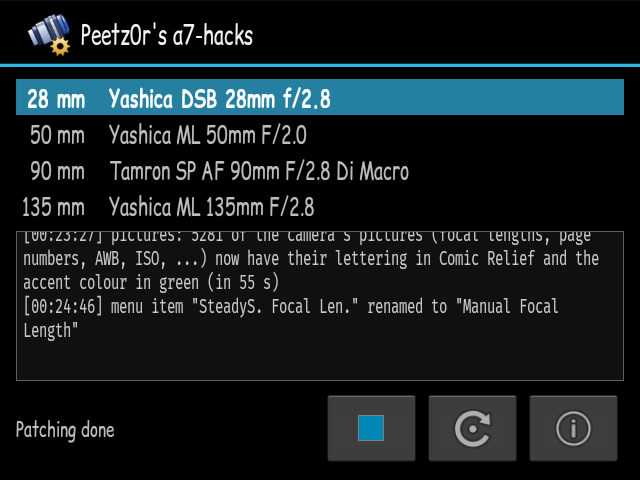
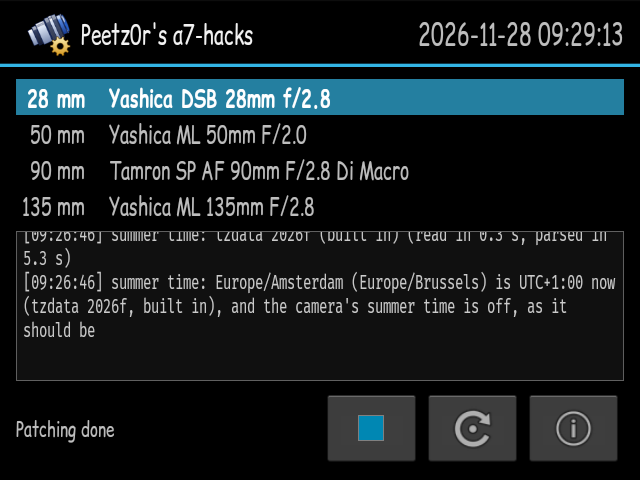
Readme updates

Changed region(s): [[0.0312, 0.4688, 0.9688, 0.7188], [0.6562, 0.0312, 0.9688, 0.0938]]

diff --git a/docs/Readme.md b/docs/Readme.md
@@ -22,6 +22,10 @@ When you use Aperture Priority mode with Auto-ISO, it should select a best shutt
 * Screenshot tool for the native UI (CLI for now, separate OSD and Live view).
 * 24h notation was only used with D-M-Y notation, is now also used with Y-M-D notation.
 * Ships with a recent timezone database (tzdata 2026f) and allows you to upgrade by putting TZDATA.TGZ on the SD card
+* Fix Sony's filesystem driver glue layers:
+	+ Write timezone fields
+	+ Allow lowercase filenames
+	+ Allow filenames longer than 8.3 (paths up to 60 characters)
 * Update the Level view to also have the Histogram on the same screen.
 	+ [People have](https://www.dpreview.com/forums/threads/a7i-evf-with-both-histogram-and-level.4822662/) [been asking](https://www.reddit.com/r/SonyAlpha/comments/vx4vjy/comment/n5l3lb5/) [for this ](https://ca.community.sony.com/s/question/0D54O00006v8fOQSAY/sony-a7-series-incorporate-histogram-and-level-on-same-screen?language=en_US) [across many](https://www.reddit.com/r/SonyAlpha/comments/1hnrdmb/level_and_hist_on_displayevf_with_a6700/) [Sony Alpha](https://www.dpreview.com/forums/threads/showing-both-level-and-histogram-in-viewfinder-for-a6400.4430248/#post-63143887) [models for](https://www.dpreview.com/forums/threads/a6500-histogram-and-level-at-same-time.4115862/) [14 years](https://www.dpreview.com/forums/threads/no-level-and-histogram-at-the-same-time-nex7.3234071/)!
 
